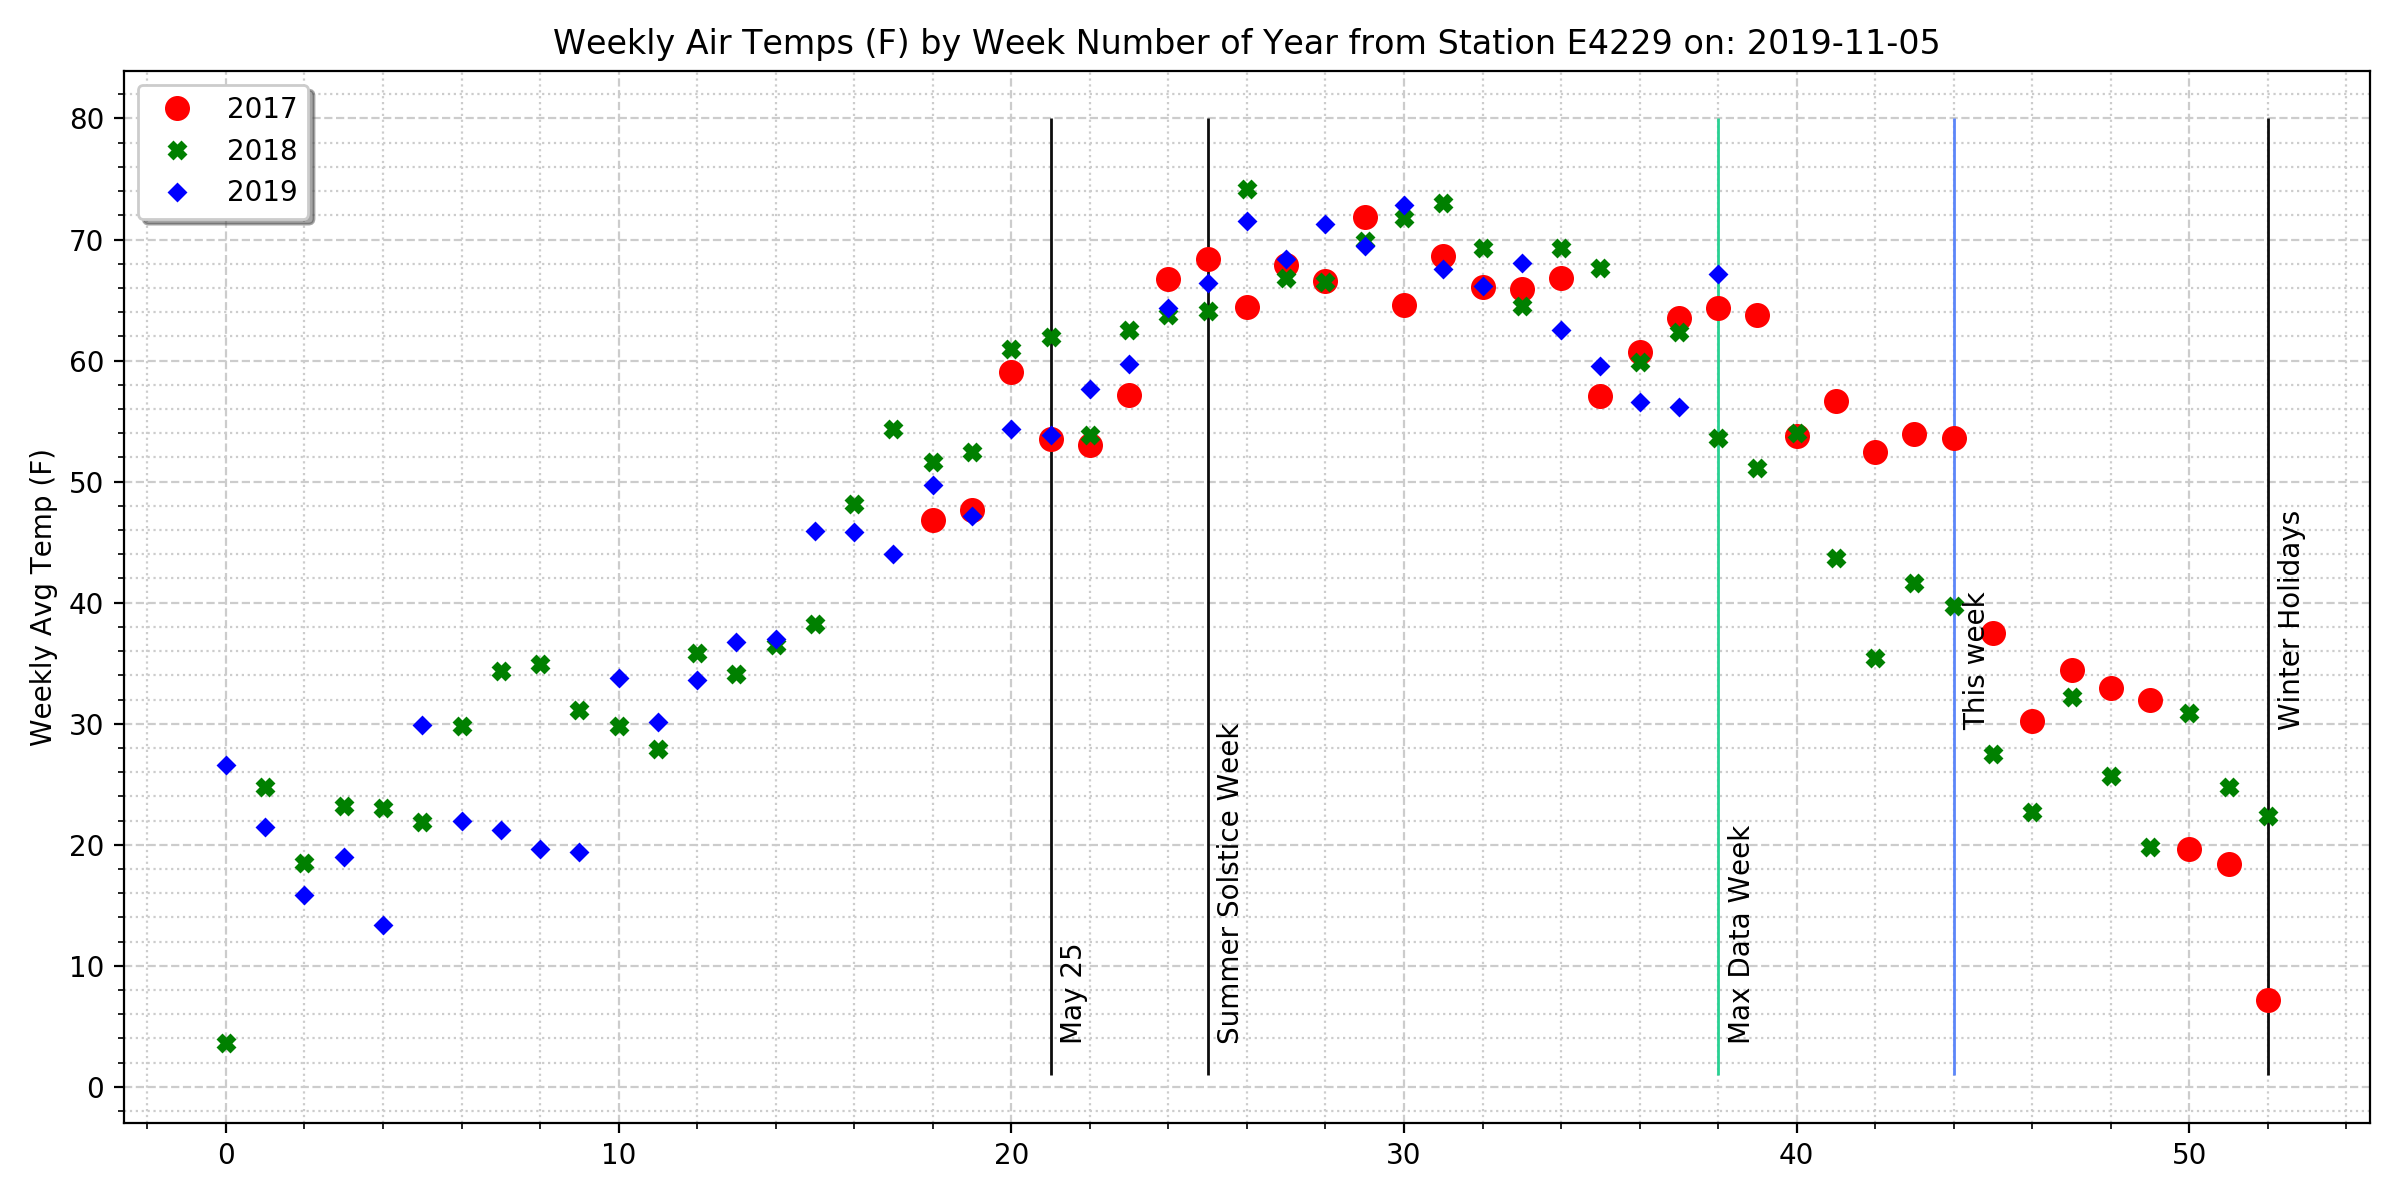
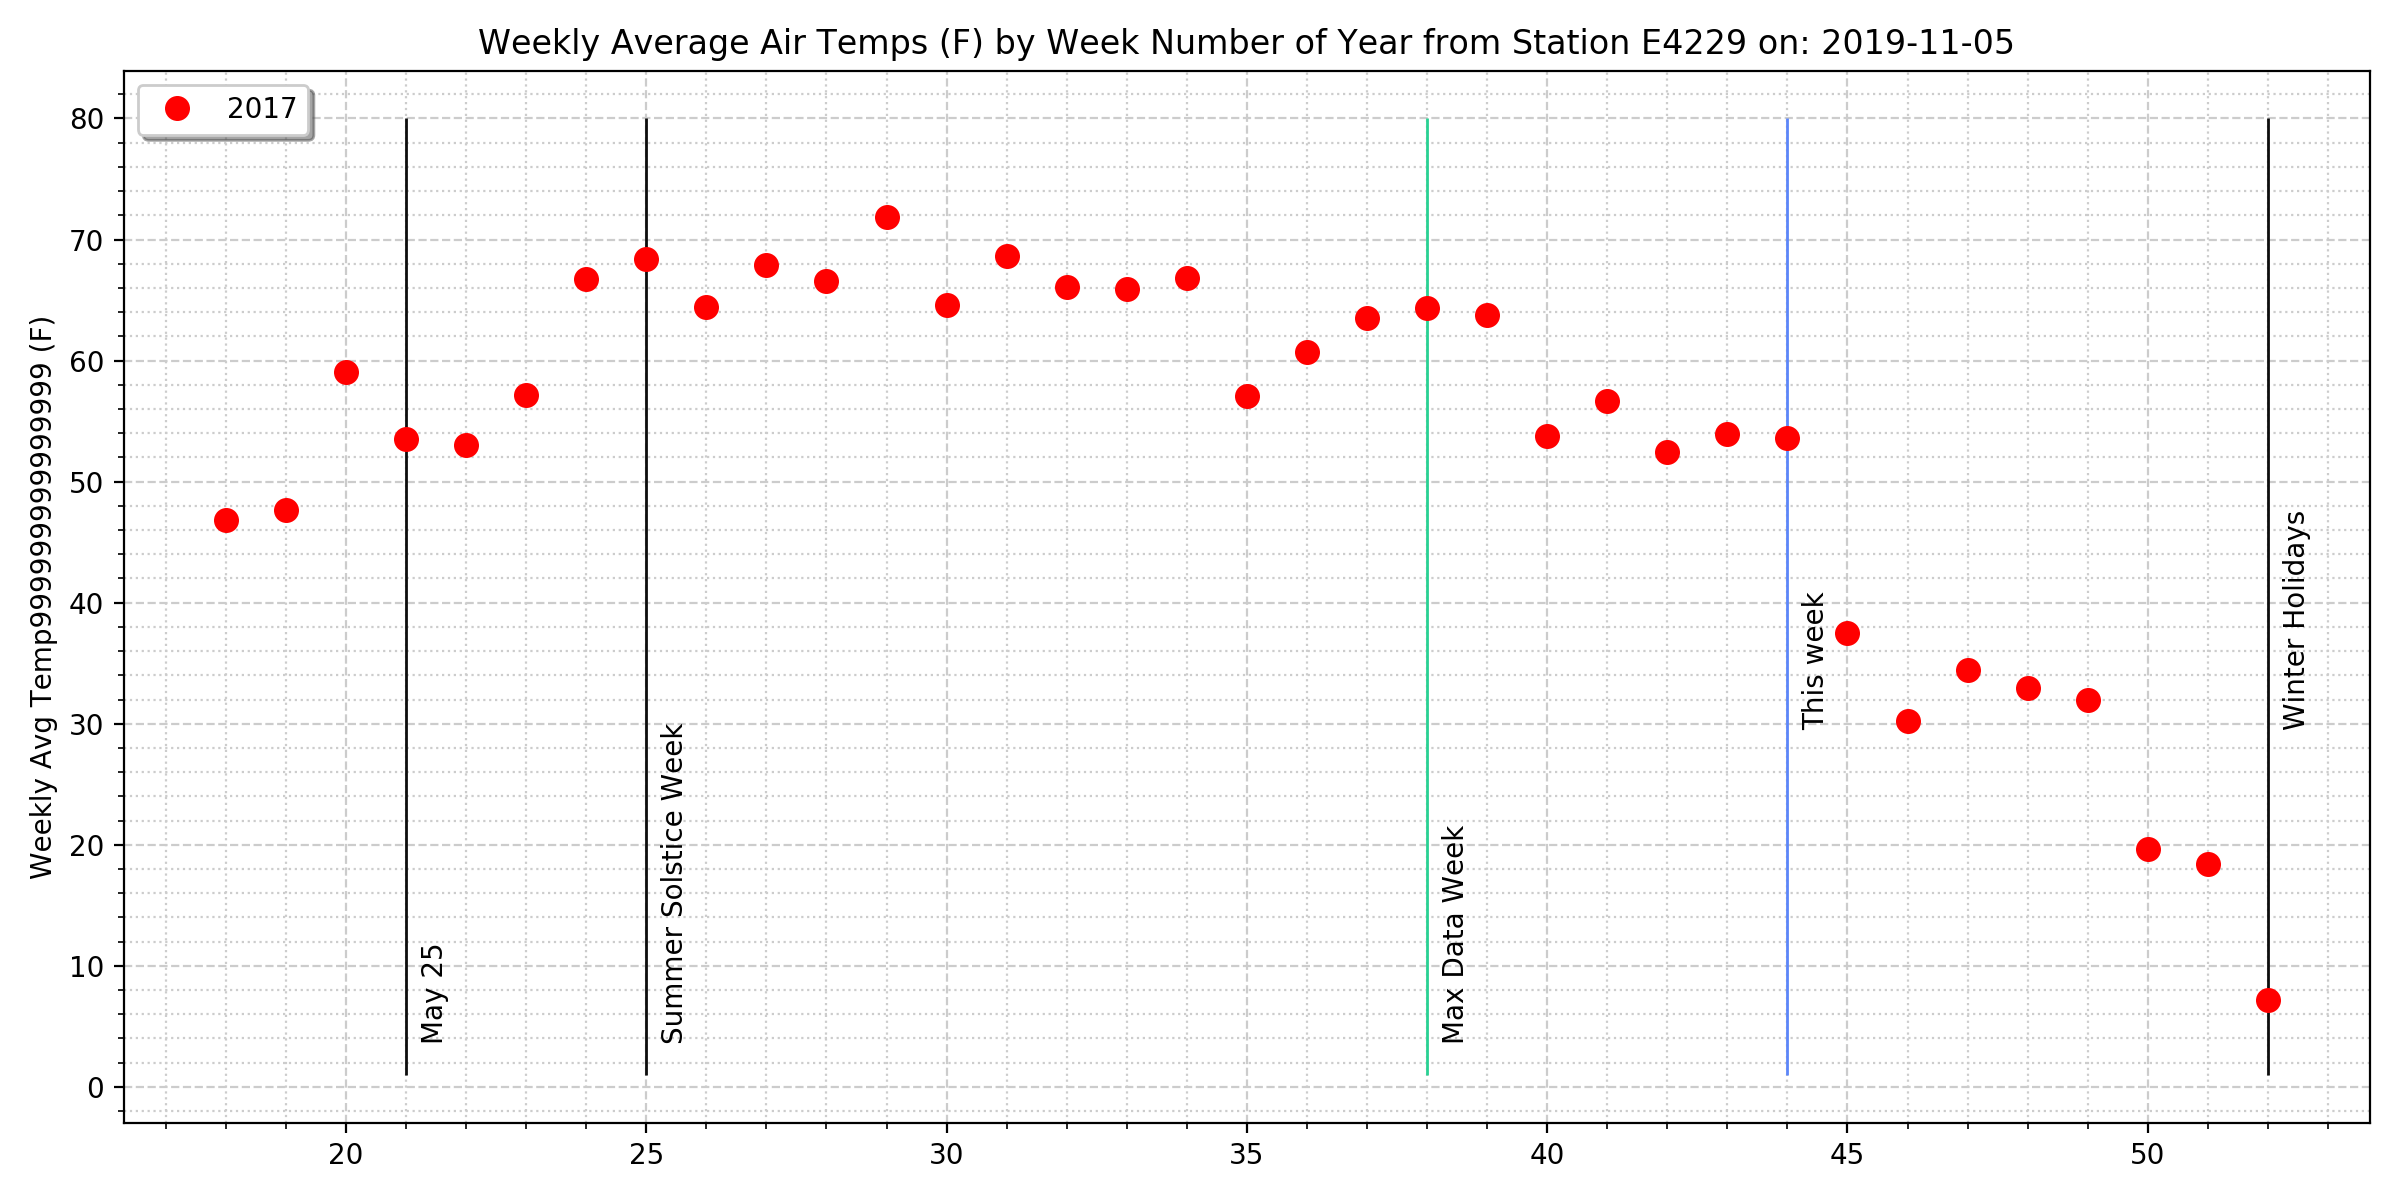
small local changes

diff --git a/weekly_electric.py b/weekly_electric.py
@@ -1,0 +1,54 @@
+import matplotlib.pyplot as plt
+import pandas as pd
+import sqlalchemy
+import numpy as np
+from pandas.plotting import register_matplotlib_converters
+register_matplotlib_converters()
+from matplotlib import dates as mpl_dates
+from matplotlib.ticker import (MultipleLocator, FormatStrFormatter, AutoMinorLocator)
+import datetime
+today = (datetime.datetime.now().strftime("%Y-%m-%d"))
+print(today)
+todayweek = (datetime.datetime.now().strftime("%W"))
+
+# Make the figure wider to see things better
+plt.figure(figsize=(12,6))
+
+engine = sqlalchemy.create_engine('mysql+pymysql://jcz:yub.miha@localhost:3306/weather')
+
+### 2017 
+my_query2017 = ''' SELECT `WEEKW`, `w_temp_f_avg` FROM `weather`.`v_E4229_weekly` WHERE (YEARY = 2017) and WEEKW <= 52;'''
+df1 = pd.read_sql_query(my_query2017,engine)
+tempf_vals2017 = df1['w_temp_f_avg']
+dater2017 = df1['WEEKW']
+plt.plot(dater2017, tempf_vals2017, linestyle="", color="red", linewidth=1, marker='o', label="2017", markersize=8)
+
+
+
+### Max plots
+my_max = ''' SELECT max(WEEKW) as maxweek FROM `weather`.`v_E4229_weekly` WHERE (YEARY = 2019);'''
+dfmaxweek = pd.read_sql_query(my_max,engine)
+maxweek = dfmaxweek['maxweek']
+
+# Drawings
+plt.vlines(maxweek, ymin=1, ymax=80, colors='#29d193', linewidth=1)
+plt.annotate('Max Data Week', xy=(int(maxweek), 0), xytext=(int(maxweek)+0.25, 4), rotation='vertical', fontsize=10)
+plt.vlines(52, ymin=1, ymax=80, colors='#0D0D0D', linewidth=1)
+plt.annotate('Winter Holidays', xy=(52, 0), xytext=(52.25, 30), rotation='vertical', fontsize=10)
+plt.vlines(21, ymin=1, ymax=80, colors='#0D0D0D', linewidth=1)
+plt.annotate('May 25', xy=(21, 0), xytext=(21+0.25, 4), rotation='vertical', fontsize=10)
+plt.vlines(25, ymin=1, ymax=80, colors='#0D0D0D', linewidth=1)
+plt.annotate('Summer Solstice Week', xy=(25, 0), xytext=(25+0.25, 4), rotation='vertical', fontsize=10)
+plt.vlines(int(todayweek), ymin=1, ymax=80, colors='#5C86F9', linewidth=1)
+plt.annotate('This week', xy=(int(todayweek), 0), xytext=(int(todayweek)+0.25, 30), rotation='vertical', fontsize=10)
+
+plt.ylabel("Weekly Avg Temp999999999999999 (F)")
+plt.minorticks_on()
+plt.title("Weekly Average Air Temps (F) by Week Number of Year from Station E4229 on: "+ today)
+plt.grid(b=True, which='major', color='#CCCCCC', linestyle='--')
+plt.grid(b=True, which='minor', color='#CCCCCC', linestyle=':')
+plt.legend(loc='upper left', shadow=True)
+plt.tight_layout() # optional to fix certain layout issues.
+plt.savefig('e4229weekly_temps_compare_years.png', dpi=200)
+plt.show()
+plt.close()
